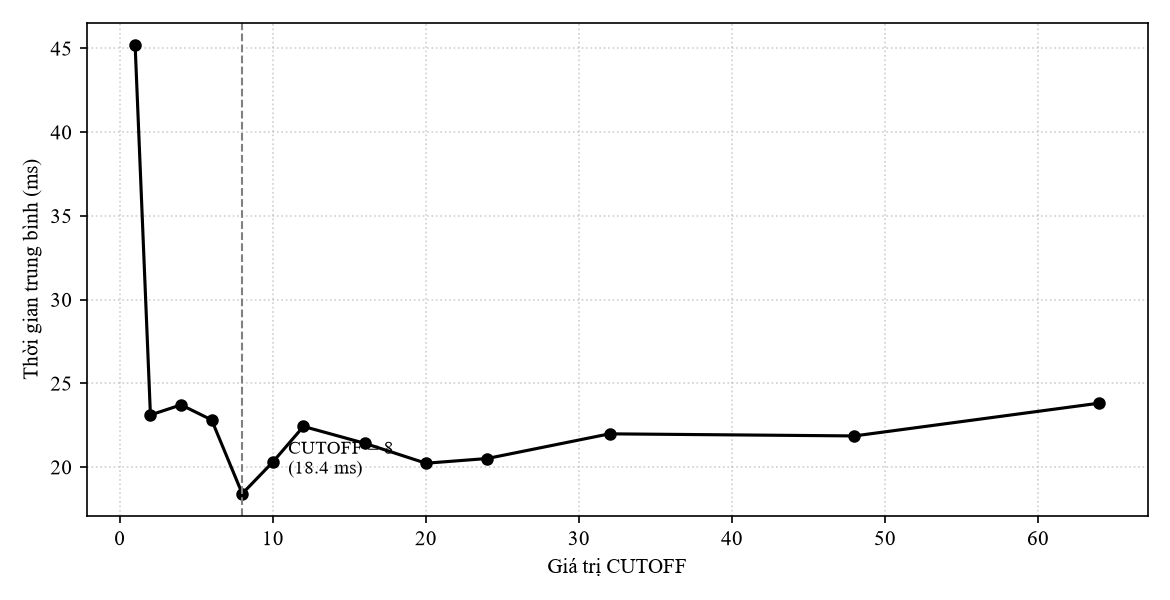
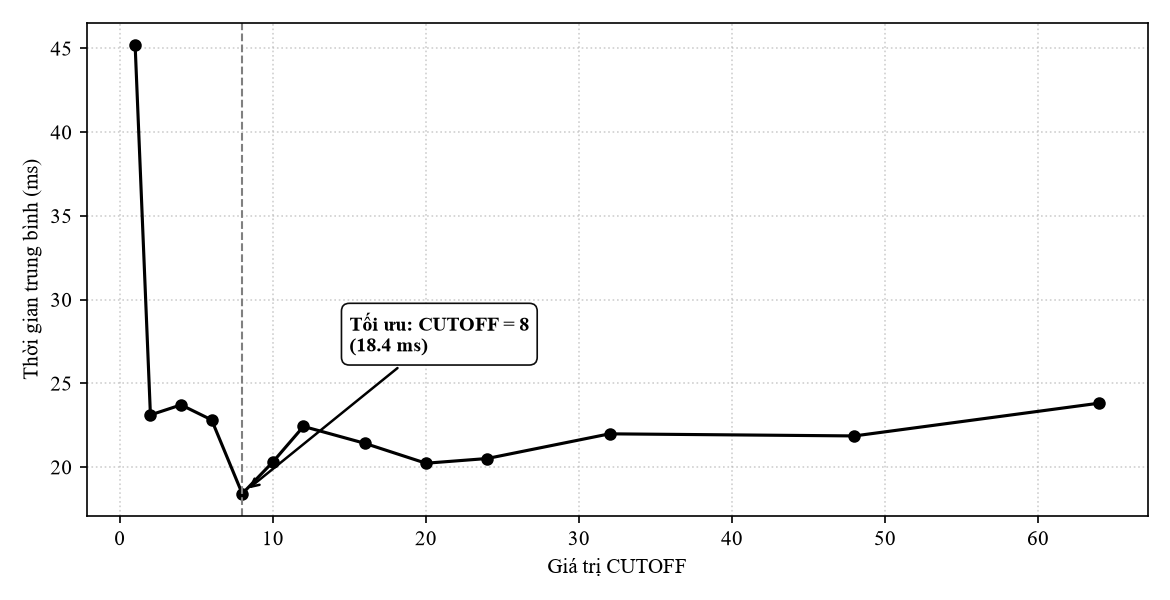
fix: dieu chinh nhan CUTOFF tren Fig 1 len vung trong kem mui ten, khong bi de len duong ve

Changed region(s): [[0.2769, 0.48, 0.4615, 0.66], [0.2154, 0.66, 0.3077, 0.81]]

diff --git a/report/plot_charts.py b/report/plot_charts.py
@@ -26,12 +26,23 @@ best_t = cutoff_df.loc[best_idx, 'time_ms']
 
 # ==============================================
 # Hinh 1: CUTOFF vs Thoi gian (n=100000, random)
+# Chinh sua vi tri chu va mui ten len vung trong, co khung trang bao quanh de khong bi de len duong line
 # ==============================================
 fig, ax = plt.subplots(figsize=(7.8, 4.0))
 ax.plot(cutoff_df['cutoff'], cutoff_df['time_ms'], 'o-', color='black', linewidth=1.5, markersize=5)
 ax.axvline(x=best_c, color='gray', linestyle='--', linewidth=1)
-ax.annotate(f'CUTOFF = {best_c}\n({best_t:.1f} ms)', xy=(best_c, best_t),
-            xytext=(best_c + 3, best_t + 1.2), fontsize=9)
+
+# Dat chu o khoang trong ben tren (y ~ 27) kem mui ten chi xuong diem cuc tieu (8, 18.4)
+ax.annotate(
+    f'Tối ưu: CUTOFF = {best_c}\n({best_t:.1f} ms)',
+    xy=(best_c, best_t),
+    xytext=(best_c + 7, best_t + 8.5),
+    arrowprops=dict(arrowstyle='->', color='black', lw=1.2, shrinkB=4),
+    fontsize=9.5,
+    fontweight='bold',
+    bbox=dict(boxstyle='round,pad=0.4', facecolor='white', edgecolor='black', linewidth=0.8, alpha=0.95)
+)
+
 ax.set_xlabel('Giá trị CUTOFF')
 ax.set_ylabel('Thời gian trung bình (ms)')
 ax.grid(True, linestyle=':', alpha=0.6)
@@ -103,4 +114,4 @@ fig.tight_layout()
 fig.savefig('report/figures/fig4_distribution.png')
 plt.close()
 
-print(f"Đã cập nhật script vẽ biểu đồ tự động theo CUTOFF = {best_c}.")
+print(f"Đã vẽ lại Fig 1 với nhãn mũi tên rõ ràng, không bị đè lên đường vẽ.")
